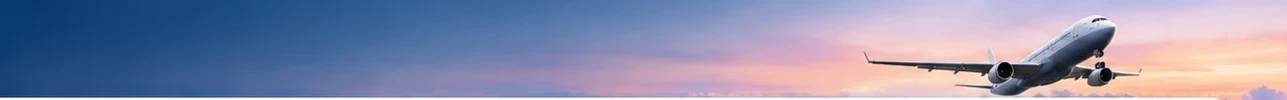
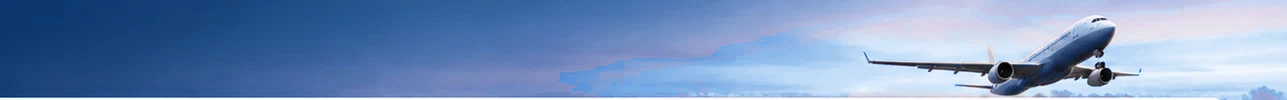
Header sky: blue and white instead of orange sunset

diff --git a/frontend/src/index.css b/frontend/src/index.css
@@ -351,7 +351,7 @@ body {
 }
 @media (max-width: 768px) {
   /* Stacked header: the plane would sit behind the logo, so just the sky */
-  .header.header-sky { background: linear-gradient(160deg, #0c2550 0%, #1c4a86 60%, #6f7fb0 100%); }
+  .header.header-sky { background: linear-gradient(160deg, #0c2550 0%, #1c4a86 60%, #5b8fd6 100%); }
 }
 .header.header-sky .nav-tabs {
   background: rgba(255, 255, 255, 0.94);
@@ -3074,7 +3074,7 @@ body {
   padding: 0 0.25rem;
 }
 @media (max-width: 768px) {
-  .modal-overlay.booking-fullpage::before { background: linear-gradient(180deg, #0c2550 0, #1c4a86 90px, #7d9ccc 160px, #f4f6f9 240px); }
+  .modal-overlay.booking-fullpage::before { background: linear-gradient(180deg, #0c2550 0, #1c4a86 90px, #6fa3e0 160px, #f4f6f9 240px); }
   .booking-fullpage > .modal-content > .wz-banner { height: 72px; }
 }
 
